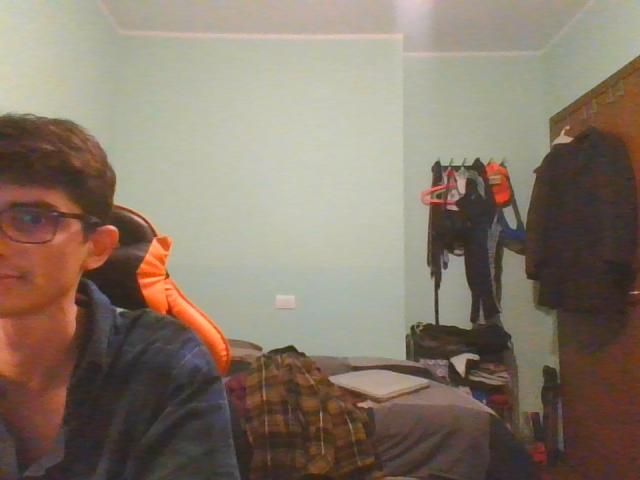
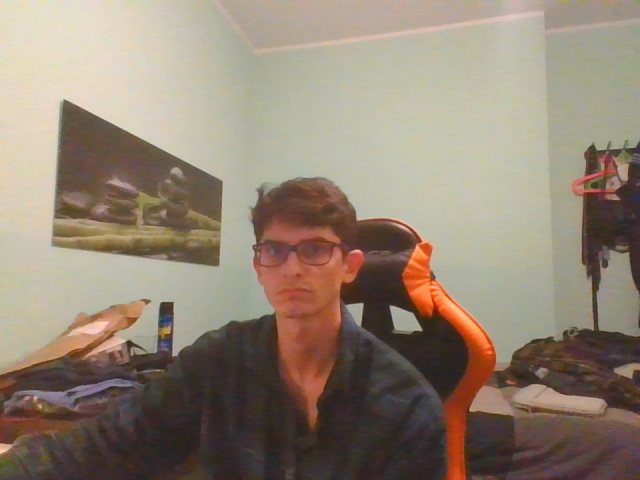
improve camera rotation

diff --git a/PhysicalMetaverseUnity/Assets/RobotPoseContoller.cs b/PhysicalMetaverseUnity/Assets/RobotPoseContoller.cs
@@ -45,7 +45,7 @@ public class RobotPoseContoller : MonoBehaviour
     //static _list_length
     public int _list_length = 10;
     public List<float> _zDistanceList = new List<float>();
-    
+    [SerializeField] private float _lerpNose;
     
     // Start is called before the first frame update
     void Start()
@@ -102,7 +102,9 @@ public class RobotPoseContoller : MonoBehaviour
         {
             _meshes.Add(mesh);
         }
-
+    
+        //lerpnose copy vector3 of nose
+        _lerpNose = _joints["Nose"].position.y;
     }
     public bool _handTrackerMeshEnabled = false;
     private bool _notPopulated = true;
@@ -113,8 +115,9 @@ public class RobotPoseContoller : MonoBehaviour
     //public transform camera
     public Transform _camera;
     public float _camAngleSensitivity = 10f;
+    public float _camXAngleSensitivity = 10f;
     // Update is called once per frame
-    void FixedUpdate()
+    void Update()
     {
         Hide(_HIDE);
         //if spawned
@@ -165,13 +168,12 @@ public class RobotPoseContoller : MonoBehaviour
         if(Mathf.Abs(zDistance - _oldZDistance) > _distanceDeltaTolerance)
             zDistance = _oldZDistance;
         else
-            _oldZDistance = zDistance;
             _zDistanceList.Add(zDistance);
             if(_zDistanceList.Count > _list_length)
                 _zDistanceList.RemoveAt(0);
                 //sort list
                 //sorted list
-                /*List<float> sortedList = new List<float>();
+                List<float> sortedList = new List<float>();
                 //for each value in _zDistanceList
                 foreach (float value in _zDistanceList)
                 {
@@ -181,12 +183,13 @@ public class RobotPoseContoller : MonoBehaviour
                 //sort sorted list
                 sortedList.Sort();
                 //choose middle value
-                zDistance = sortedList[_list_length/2];*/
+                zDistance = sortedList[_list_length/2];
                 //zDistance = min of list
-                for(int i = 0; i < _zDistanceList.Count; i++){
+                /*for(int i = 0; i < _zDistanceList.Count; i++){
                     if(_zDistanceList[i] < zDistance)
                         zDistance = _zDistanceList[i];
-                }
+                }*/
+            _oldZDistance = zDistance;
         /*Vector3 poseZLocation = _joints["Left Shoulder"].localPosition - _joints["Left Ankle"].localPosition;
 
         float length_to_measure = poseZLocation.y;
@@ -216,9 +219,15 @@ public class RobotPoseContoller : MonoBehaviour
 
         //map localtransform x from -5,5 to 90,270 and set rotation of _camera
         //clamp from -5 to 5
-        float camAngle = Mathf.Clamp(transform.localPosition.x, -5f, 5f);
-        camAngle = -(transform.localPosition.x/5f) * _camAngleSensitivity;// + 180f;
-        _camera.localRotation = Quaternion.Euler(0, camAngle, 0);
+        float camYAngle = Mathf.Clamp(transform.localPosition.x, -5f, 5f);
+        camYAngle = -(transform.localPosition.x/5f) * _camAngleSensitivity;// + 180f;
+        //lerp _lerpNose to nose
+        _lerpNose = Mathf.Lerp(_lerpNose, _joints["Nose"].localPosition.y, _lerpSpeed);
+        //camXAngle add 1 and clamp between -2 and 2
+        float camXAngle = Mathf.Clamp(_lerpNose + 1f, -2f, 2f);
+        camXAngle = (camXAngle/2f) * _camXAngleSensitivity;
+
+        _camera.localRotation = Quaternion.Euler(camXAngle, camYAngle, 0);
 
         //set transform.localrotation y angle from YDirection of left shoulder and right shoulder
         //transform.localRotation = Quaternion.LookRotation(YDirection(_joints["Left Shoulder"], _joints["Right Shoulder"]));
@@ -232,7 +241,9 @@ public class RobotPoseContoller : MonoBehaviour
         HeadAngles3();
 
     }
-
+    public float GetFilteredDistance(){
+        return _oldZDistance;
+    }
     public void SetRotationOffset(float rotationOffset){
         _rotationOffset = rotationOffset;
     }

diff --git a/PhysicalMetaverseUnity/Assets/DOFController.cs b/PhysicalMetaverseUnity/Assets/DOFController.cs
@@ -8,6 +8,7 @@ public class DOFController : MonoBehaviour
     [SerializeField] private string _controlledAngle = "x";
     //variable float angle
     [SerializeField] private float _angle = 0f;
+    [SerializeField] private float _sensitivity = 1f;
     //bool active
     [SerializeField] private bool _active = true;
     [SerializeField] private bool _lerp = true;
@@ -51,6 +52,7 @@ public class DOFController : MonoBehaviour
     {
         //if active set transform angle depending on controlledangle
         if(_active){
+            _angle *= _sensitivity;
             if(_controlledAngle == "x"){
                 if(_lerp)
                     transform.localEulerAngles = new Vector3(Mathf.LerpAngle(transform.localEulerAngles.x, _angle + _angleOffset, 0.1f), transform.localEulerAngles.y, transform.localEulerAngles.z);

diff --git a/PhysicalMetaverseUnity/Assets/Code and Prefabs/Real Robot/Managers/PersonManagerV2.cs b/PhysicalMetaverseUnity/Assets/Code and Prefabs/Real Robot/Managers/PersonManagerV2.cs
@@ -97,6 +97,7 @@ public class PersonManagerV2 : Monosingleton<PersonManagerV2>
         //rotate pose 180
         _pose.transform.rotation = Quaternion.Euler(0, 180, 0);
 
+        _originalEarsOffset = _earsOffset;
     }
 
     //a receive looks like
@@ -506,8 +507,10 @@ public class PersonManagerV2 : Monosingleton<PersonManagerV2>
 
     public bool _rotate90 = false;
     [SerializeField] private float _earsOffset = 0.1f;
+    private float _originalEarsOffset = 0.1f;
     private void MoveSpheres()
     {
+        _earsOffset = _originalEarsOffset / (_odileViz.GetComponent<RobotPoseContoller>().GetFilteredDistance()/0.3f);
         try{
             //for each sphere
             for (int i = 0; i < parsedData.Length; i++)
